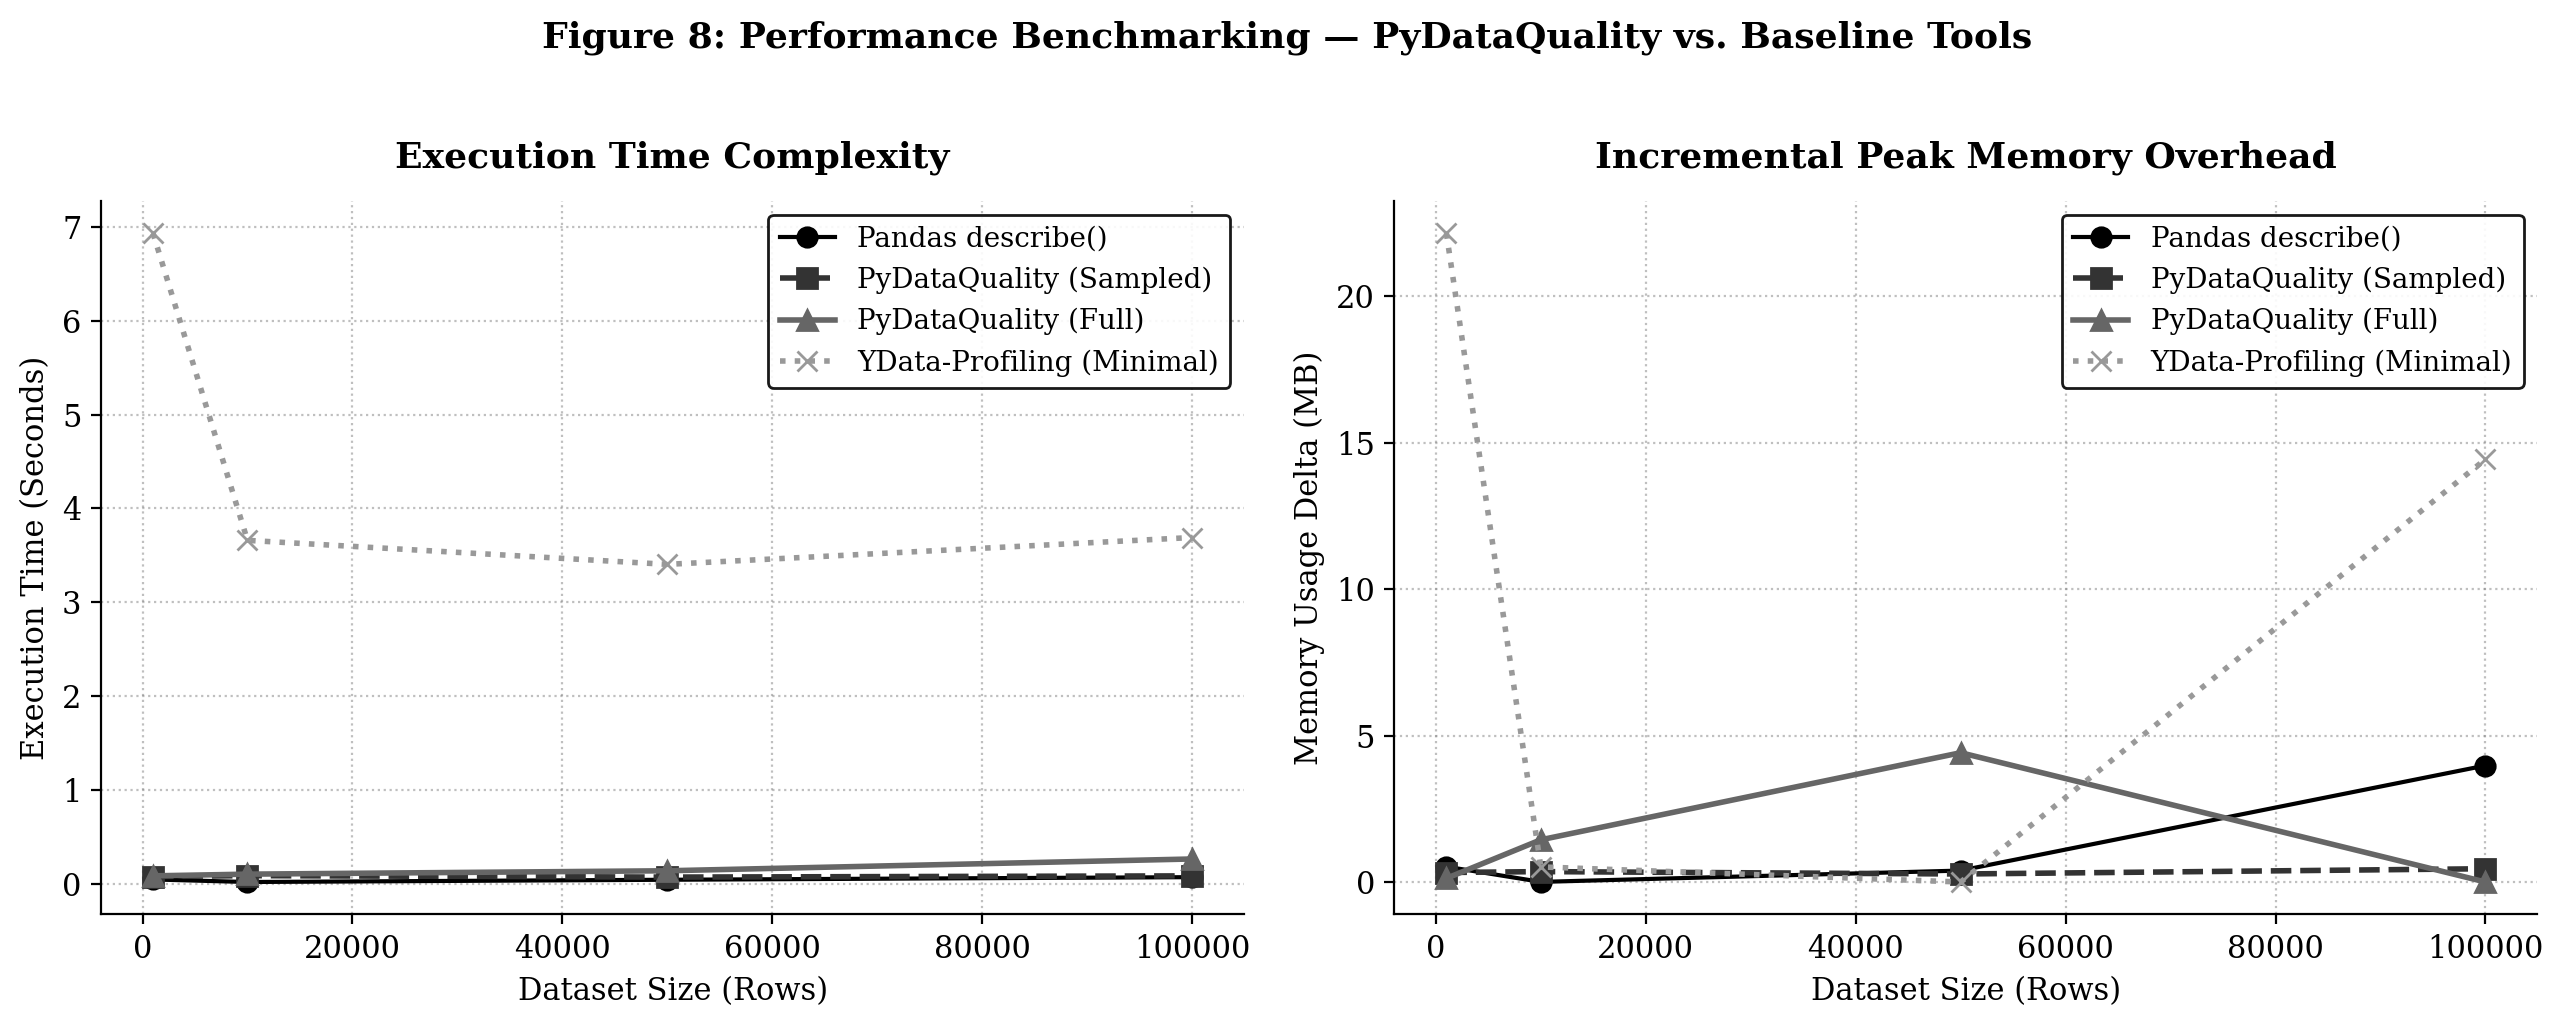
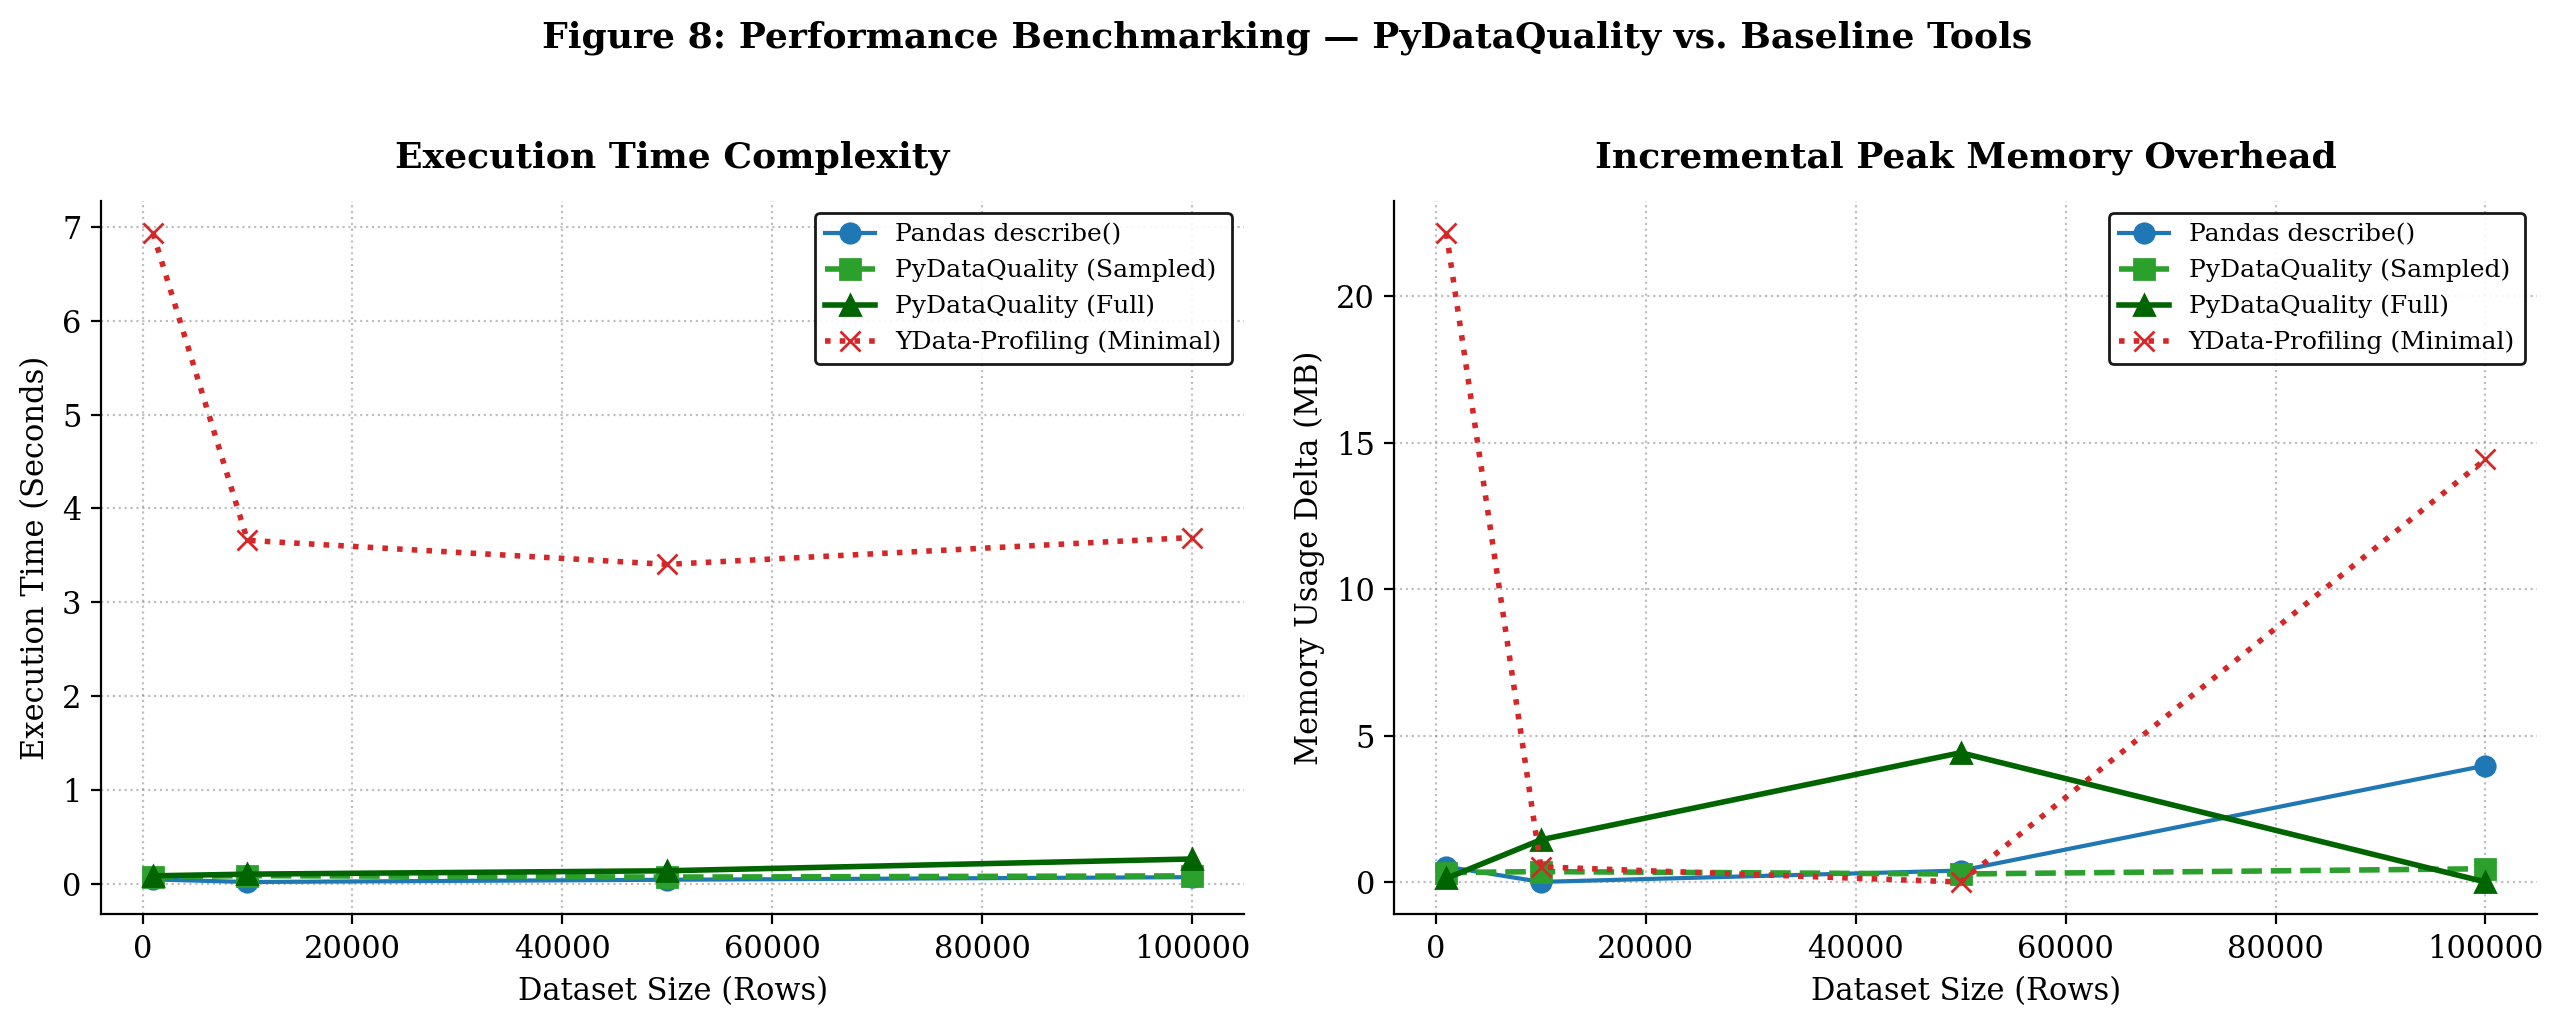
Restore colored performance benchmark plot

diff --git a/paperwriting/plot_benchmark_colored.py b/paperwriting/plot_benchmark_colored.py
@@ -1,0 +1,64 @@
+"""Regenerate benchmark performance chart in color for journal submission."""
+import json, os
+import matplotlib
+matplotlib.use('Agg')
+import matplotlib.pyplot as plt
+
+def generate_colored_benchmark():
+    plt.rcParams.update({
+        'font.family': 'serif',
+        'font.size': 11,
+        'axes.titlesize': 13,
+        'axes.labelsize': 11,
+        'legend.fontsize': 10,
+        'figure.dpi': 200,
+    })
+
+    out_dir = os.path.dirname(os.path.abspath(__file__))
+    with open(os.path.join(out_dir, 'benchmark_results.json')) as f:
+        results = json.load(f)
+
+    scales = results['scales']
+
+    fig, (ax1, ax2) = plt.subplots(1, 2, figsize=(13, 5))
+
+    styles = [
+        ('pandas_describe',       'Pandas describe()',           'o',  '-',  '#1f77b4', 1.5), # blue
+        ('pydataquality_sampled', 'PyDataQuality (Sampled)',     's',  '--', '#2ca02c', 2.0), # green
+        ('pydataquality_full',    'PyDataQuality (Full)',        '^',  '-',  '#006400', 2.0), # dark green
+        ('ydata_profiling',       'YData-Profiling (Minimal)',   'x',  ':',  '#d62728', 2.0), # red
+        ('pdq_drift',             'PyDataQuality (Drift)',       'v',  '-.', '#17becf', 1.5), # teal
+        ('evidently_drift',       'Evidently (DataDriftPreset)', 'D',  '-',  '#ff7f0e', 1.5)  # orange
+    ]
+
+    for key, label, marker, ls, color, lw in styles:
+        if key not in results or len(results[key]['time']) == 0:
+            continue
+            
+        ax1.plot(scales, results[key]['time'], 
+                     marker=marker, linestyle=ls, color=color, linewidth=lw, label=label, markersize=7)
+        ax2.plot(scales, results[key]['memory'], 
+                     marker=marker, linestyle=ls, color=color, linewidth=lw, label=label, markersize=7)
+
+    for ax, title, ylabel in [
+        (ax1, 'Execution Time Complexity', 'Execution Time (Seconds)'),
+        (ax2, 'Incremental Peak Memory Overhead', 'Memory Usage Delta (MB)'),
+    ]:
+        ax.set_title(title, fontweight='bold', pad=12)
+        ax.set_xlabel('Dataset Size (Rows)')
+        ax.set_ylabel(ylabel)
+        ax.grid(True, linestyle=':', alpha=0.5, color='gray')
+        ax.legend(framealpha=0.9, edgecolor='black', fontsize=9)
+        ax.set_facecolor('white')
+        ax.spines[['top', 'right']].set_visible(False)
+
+    fig.suptitle('Figure 8: Performance Benchmarking — PyDataQuality vs. Baseline Tools',
+                 fontsize=13, fontweight='bold', y=1.02)
+    plt.tight_layout()
+
+    path = os.path.join(out_dir, 'benchmark_performance.png')
+    plt.savefig(path, dpi=200, bbox_inches='tight', facecolor='white')
+    print(f"Saved colored plot to {path}")
+
+if __name__ == '__main__':
+    generate_colored_benchmark()